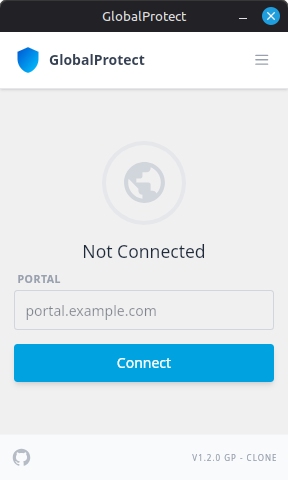
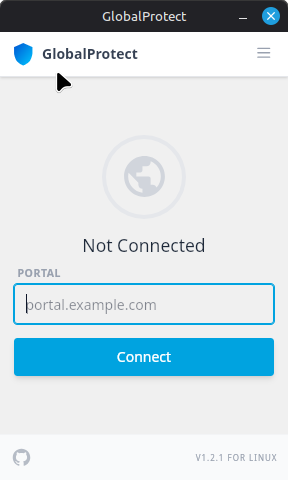
docs: update README with solution-oriented intro and new screenshots

diff --git a/src/App.tsx b/src/App.tsx
@@ -484,7 +484,7 @@ function App() {
                 A modern desktop client for GlobalProtect VPN, designed specifically for the Linux community.
               </p>
               <p className="text-[10px] text-gp-blue font-bold uppercase tracking-widest">
-                Created by EPX-PANCA
+                Created by <a href="https://github.com/EPX-PANCA" target="_blank" rel="noopener noreferrer" className="hover:underline">EPX-PANCA</a>
               </p>
 
               <div className="space-y-4 px-2 pt-2">

diff --git a/README.md b/README.md
@@ -1,6 +1,8 @@
 # GlobalProtect Client for Linux 🛡
 
-A modern, fast, and sleek GlobalProtect VPN client built with **Tauri**, **React**, and **OpenConnect**. Designed specifically for Linux users who want a native-feeling experience with a system tray indicator and seamless credential management.
+A modern, fast, and sleek GlobalProtect VPN client built with **Tauri**, **React**, and **OpenConnect**. 
+
+Designed as a **free, open-source alternative** for the Linux community who need a reliable GlobalProtect connection without the hassle. If you've been looking for a way to connect to your corporate VPN on Linux with a native-feeling experience, smooth system tray integration, and seamless credential management — **this is your solution**.
 
 <p align="center">
   <img src="screenshots/main_view.png" alt="GlobalProtect Client Main View" width="300">
@@ -66,7 +68,7 @@ npm run tauri build
 
 ## Credits 🤝
 
-Developed by **EPX-PANCA**. Powered by [Tauri](https://tauri.app/) and [OpenConnect](https://www.infradead.org/openconnect/).
+Developed by [EPX-PANCA](https://github.com/EPX-PANCA). Powered by [Tauri](https://tauri.app/) and [OpenConnect](https://www.infradead.org/openconnect/).
 
 ---
 *v1.2.1 for Linux*
